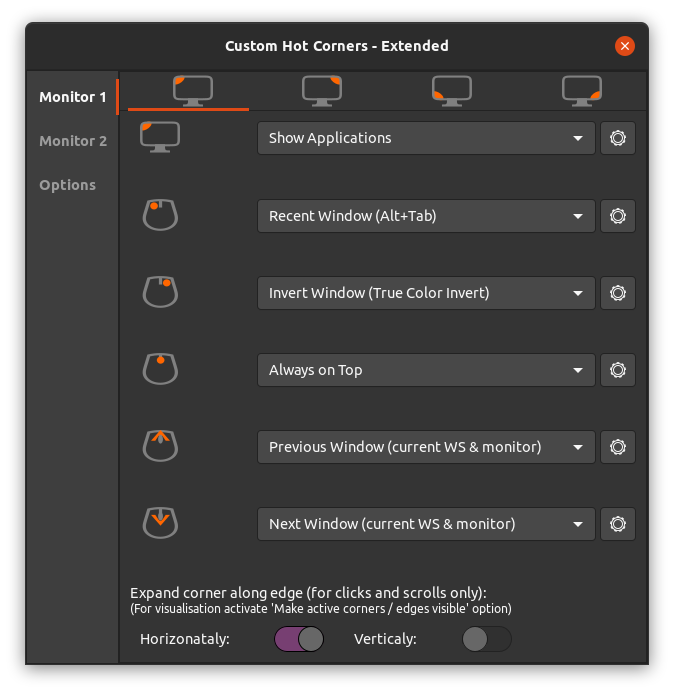
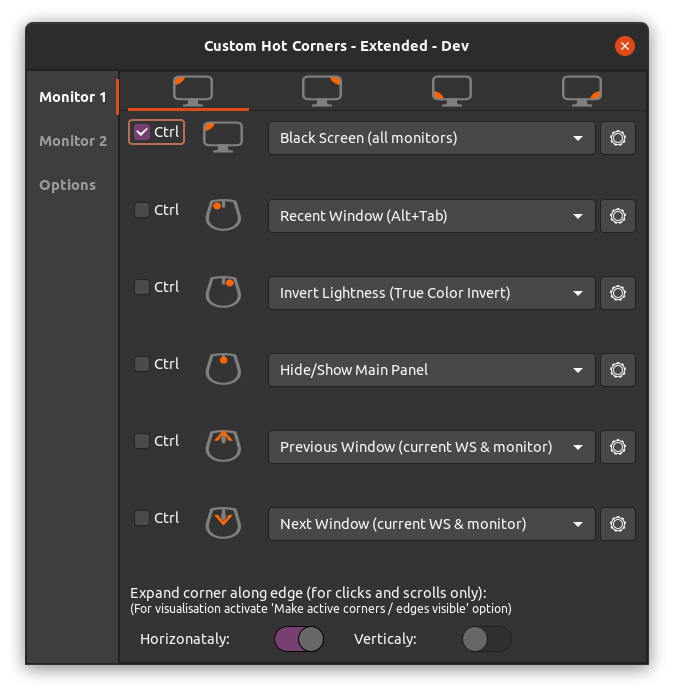
add Ctrl option

diff --git a/extension.js b/extension.js
@@ -21,6 +21,7 @@ const Meta                   = imports.gi.Meta;
 const Shell                  = imports.gi.Shell;
 const GObject                = imports.gi.GObject;
 const GLib                   = imports.gi.GLib;
+const Gdk                    = imports.gi.Gdk;
 
 const Workspace              = imports.ui.workspace;
 const Main                   = imports.ui.main;
@@ -70,7 +71,6 @@ let _mainPanelVisible;
 
 
 function init() {
-    _origUpdateHotCorners = Main.layoutManager._updateHotCorners;
     _timeoutsCollector    = [];
     _cornersCollector     = [];
     _actorsCollector      = [];
@@ -82,10 +82,11 @@ function init() {
     _dimmerActors         = [];
     _extensionEnabled     = false;
     _barrierFallback      = false;
-    _mainPanelVisible     = Main.panel.is_visible();
 }
 
 function enable() {
+    _origUpdateHotCorners = Main.layoutManager._updateHotCorners;
+    _mainPanelVisible     = Main.panel.is_visible();
     _extensionEnabled = true;
     _initMscOptions();
     if (_mscOptions.delayStart) {
@@ -229,14 +230,13 @@ function _shouldExistHotCorner(corner) {
 }
 
 function _updateCorner(corner, key, trigger) {
-    if (key === 'h-expand' || key === 'v-expand') {
-        _updateHotCorners();
-        return;
-    }
     switch (key) {
         case 'action':
             corner.action[trigger] = corner.getAction(trigger);
             _rebuildHotCorner(corner);
+            break;
+        case 'ctrl':
+            corner.ctrl[trigger] = corner.getCtrl(trigger);
             break;
         case 'command':
             corner.command[trigger] = corner.getCommand(trigger);
@@ -252,6 +252,12 @@ function _updateCorner(corner, key, trigger) {
             break;
         case 'workspace-index':
             corner.workspaceIndex[trigger] = corner.getWorkspaceIndex(trigger);
+            break;
+        case 'h-expand':
+            _updateHotCorners();
+            break;
+        case 'v-expand':
+            _updateHotCorners();
             break;
         default:
             _rebuildHotCorner(corner);
@@ -552,25 +558,45 @@ class CustomHotCorner extends Layout.HotCorner {
     _rippleAnimation() {
         this._ripples.playAnimation(this._corner.x, this._corner.y);
     }
+
+    _ctrlPressed(state) {
+        return (state & Clutter.ModifierType.CONTROL_MASK) != 0;
+    }
+
     // Overridden to allow running custom actions
-    _onCornerEntered() {
+    _onCornerEntered(actor, event) {
+        let keymap = Gdk.Keymap.get_default();
+        let state = keymap.get_modifier_state();
+        if (this._corner.ctrl[Triggers.PRESSURE] && !this._ctrlPressed(state))
+            return;
         this._runAction(Triggers.PRESSURE);
         return Clutter.EVENT_PROPAGATE;
     }
-    _onPressureTriggered (actor, event) {
+    _onPressureTriggered() {
+        let keymap = Gdk.Keymap.get_default();
+        let state = keymap.get_modifier_state();
+        if (this._corner.ctrl[Triggers.PRESSURE] && !this._ctrlPressed(state))
+            return;
         this._runAction(Triggers.PRESSURE);
     }
     _onCornerClicked(actor, event) {
         let button = event.get_button();
         let trigger;
+        let state = event.get_state();
         switch (button) {
             case Clutter.BUTTON_PRIMARY:
+                if (this._corner.ctrl[Triggers.BUTTON_PRIMARY] && !this._ctrlPressed(state))
+                    return;
                 trigger = Triggers.BUTTON_PRIMARY;
                 break;
             case Clutter.BUTTON_SECONDARY:
+                if (this._corner.ctrl[Triggers.BUTTON_SECONDARY] && !this._ctrlPressed(state))
+                    return;
                 trigger = Triggers.BUTTON_SECONDARY;
                 break;
             case Clutter.BUTTON_MIDDLE:
+                if (this._corner.ctrl[Triggers.BUTTON_MIDDLE] && !this._ctrlPressed(state))
+                    return;
                 trigger = Triggers.BUTTON_MIDDLE;
                 break;
             default:
@@ -581,13 +607,18 @@ class CustomHotCorner extends Layout.HotCorner {
     }
     _onCornerScrolled(actor, event) {
         let direction = event.get_scroll_direction();
+        let state = event.get_state();
         if (_notValidScroll(direction)) return;
         let trigger;
         switch (direction) {
             case Clutter.ScrollDirection.UP:
+                if (this._corner.ctrl[Triggers.SCROLL_UP] && !this._ctrlPressed(state))
+                    return;
                 trigger = Triggers.SCROLL_UP;
                 break;
             case Clutter.ScrollDirection.DOWN:
+                if (this._corner.ctrl[Triggers.SCROLL_DOWN] && !this._ctrlPressed(state))
+                    return;
                 trigger = Triggers.SCROLL_DOWN;
                 break;
             default:

diff --git a/prefs.js b/prefs.js
@@ -145,13 +145,14 @@ function buildPrefsWidget() {
         for (let i =0; i < corners.length; i++) {
             grid[i] = new Gtk.Grid({
                 //expand: true,
-                column_homogeneous: true,
+                column_homogeneous: false,
+                row_homogeneous: false,
                 margin_start:   10,
                 margin_end:     10,
                 margin_top:     10,
                 margin_bottom:  10,
                 //row_spacing: 4,
-                //column_spacing: 20
+                column_spacing: 10
             });
         }
 
@@ -159,6 +160,22 @@ function buildPrefsWidget() {
 
         for (let i =0; i < corners.length; i++) {
             for (let trigger of triggers) {
+
+                const ctrlBtn = new Gtk.CheckButton(
+                //const ctrlBtn = new Gtk.ToggleButton(
+                    {
+                        label: 'Ctrl',
+                        halign: Gtk.Align.START,
+                        valign: Gtk.Align.START,
+                        vexpand: false,
+                        hexpand: false,
+                        tooltip_text: _('When checked, pressed Ctrl key is needed to trigger the action'),
+                    });
+                ctrlBtn.active = corners[i].getCtrl(trigger);
+                    ctrlBtn.connect('notify::active', () =>{
+                    corners[i].setCtrl(trigger, ctrlBtn.active);
+                });
+
                 const cw = _buildCornerWidget(corners[i], trigger);
                 const trgIcon = new Gtk.Image({
                     halign: Gtk.Align.START,
@@ -176,12 +193,13 @@ function buildPrefsWidget() {
                 }
                 trgIcon.set_from_file(iconPath);
                 trgIcon.set_tooltip_text(triggerLabels[trigger]);
-                grid[i].attach(trgIcon, 0, trigger, 1, 1);
-                grid[i].attach(cw, 1, trigger, 3, 1);
+                grid[i].attach(ctrlBtn, 0, trigger, 1, 1);
+                grid[i].attach(trgIcon, 1, trigger, 1, 1);
+                grid[i].attach(cw, 2, trigger, 1, 1);
             }
 
             const ew = _buildExpandWidget(corners[i]);
-            grid[i].attach(ew, 0, 6, 4, 1);
+            grid[i].attach(ew, 0, 6, 3, 1);
 
         }
         for (let i =0; i < corners.length; i++){
@@ -317,8 +335,6 @@ function _buildCornerWidget(corner, trigger) {
             iterDict[item[1]] = iter2;
         }
     }
-    if (iterDict[corner.getAction(trigger)]) actionCombo.set_active_iter(iterDict[corner.getAction(trigger)]);
-    actionCombo.active_id = corner.getAction(trigger);
 
     let cmdConnected = false;
     commandEntryRevealer.reveal_child = corner.getAction(trigger) === 'runCommand';
@@ -369,8 +385,8 @@ function _buildCornerWidget(corner, trigger) {
         }
     });
 
+    if (iterDict[corner.getAction(trigger)]) actionCombo.set_active_iter(iterDict[corner.getAction(trigger)]);
     wsIndexRevealer.reveal_child = corner.getAction(trigger) === 'moveToWorkspace';
-
 
     if (trigger === Settings.Triggers.PRESSURE) {
         const barrierLabel = cwUI.get_object('barrierLabel');
@@ -504,3 +520,4 @@ function _chooseAppDialog() {
                 : dialog.show_all();
         return dialog;
     }
+

diff --git a/settings.js b/settings.js
@@ -14,7 +14,7 @@
  * You should have received a copy of the GNU General Public License
  * along with this program.  If not, see <http://www.gnu.org/licenses/>.
  */
-
+"use strict"
 const {GLib, Gio} = imports.gi;
 
 const ExtensionUtils = imports.misc.extensionUtils;
@@ -159,11 +159,13 @@ var Corner = class Corner {
         this.fullExpandVertical = false;
 
         this.action = {};
+        this.ctrl ={};
         this.command = {};
         this.fullscreen = {};
         this.workspaceIndex = {};
         for (let trigger of listTriggers()) {
             this.action[trigger] = this.getAction(trigger);
+            this.ctrl[trigger] = this.getCtrl(trigger);
             this.command[trigger] = this.getCommand(trigger);
             this.fullscreen[trigger] = this.getFullscreen(trigger);
             this.workspaceIndex[trigger] = this.getWorkspaceIndex(trigger);
@@ -203,7 +205,6 @@ var Corner = class Corner {
     }
 
 
-
     getAction(trigger) {
         return this._gsettings[trigger].get_string('action');
     }
@@ -236,12 +237,12 @@ var Corner = class Corner {
         this._gsettings[trigger].set_int('workspace-index', index);
     }
 
-    getAccel(trigger) {
-        return this._gsettings[trigger].get_strv('accel');
+    getCtrl(trigger) {
+        return this._gsettings[trigger].get_boolean('ctrl');
     }
 
-    setAccel(trigger, accel) {
-        this._gsettings[trigger].set_strv('accel', accel);
+    setCtrl(trigger, ctrl) {
+        this._gsettings[trigger].set_boolean('ctrl', ctrl);
     }
 
     get hExpand() {
